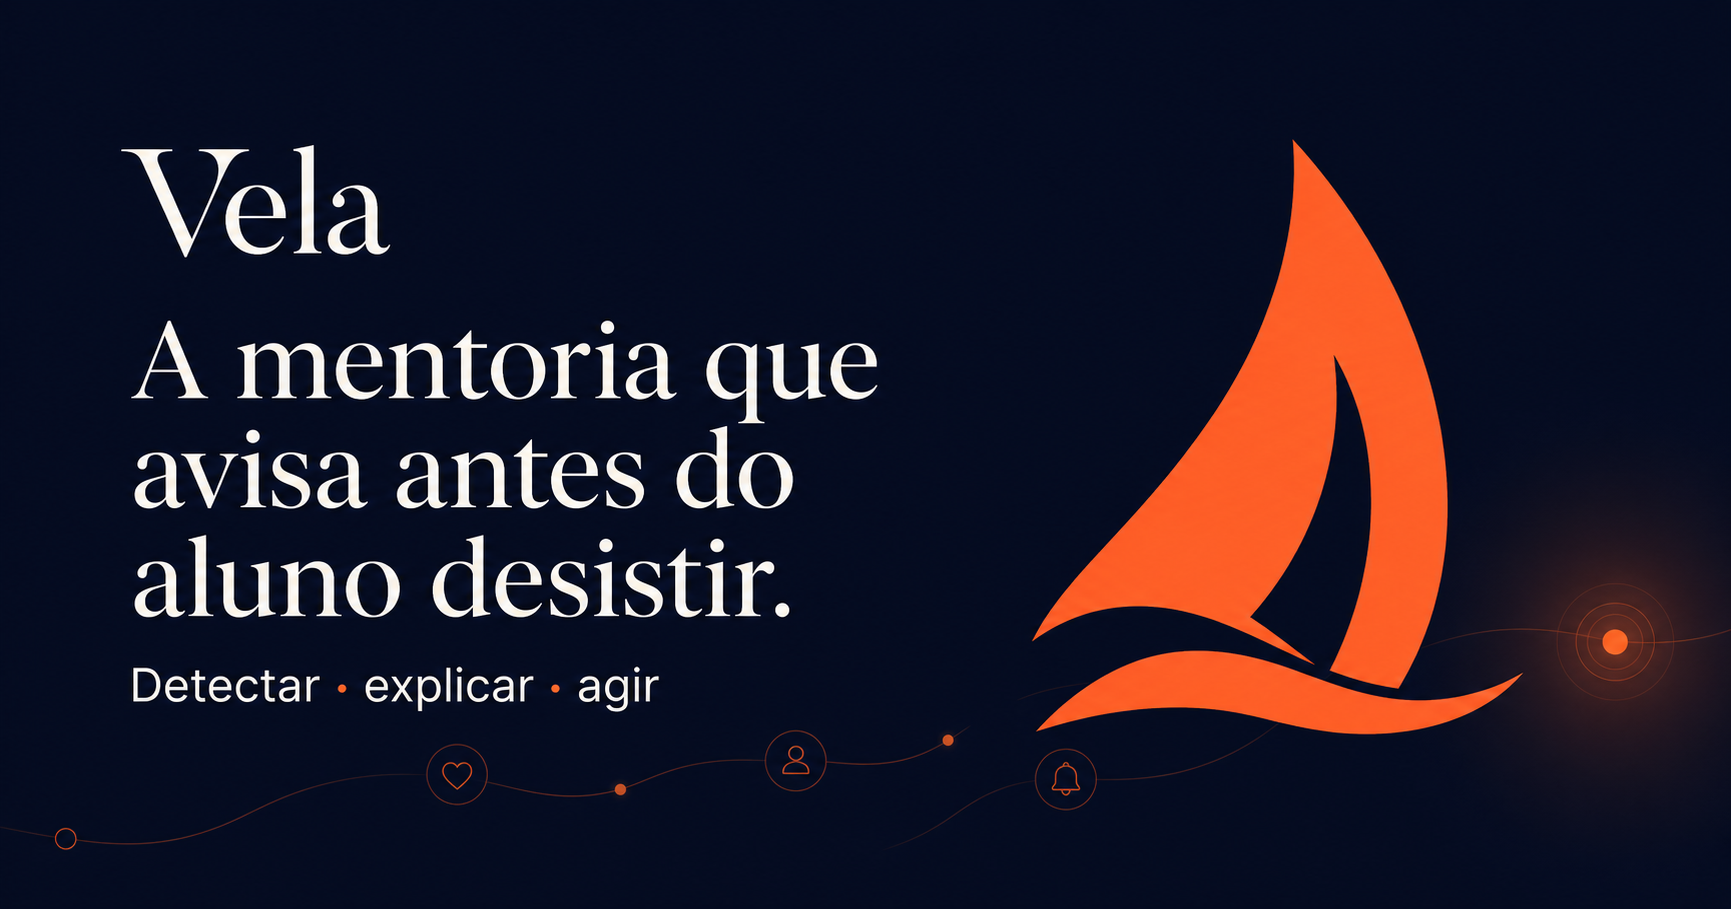
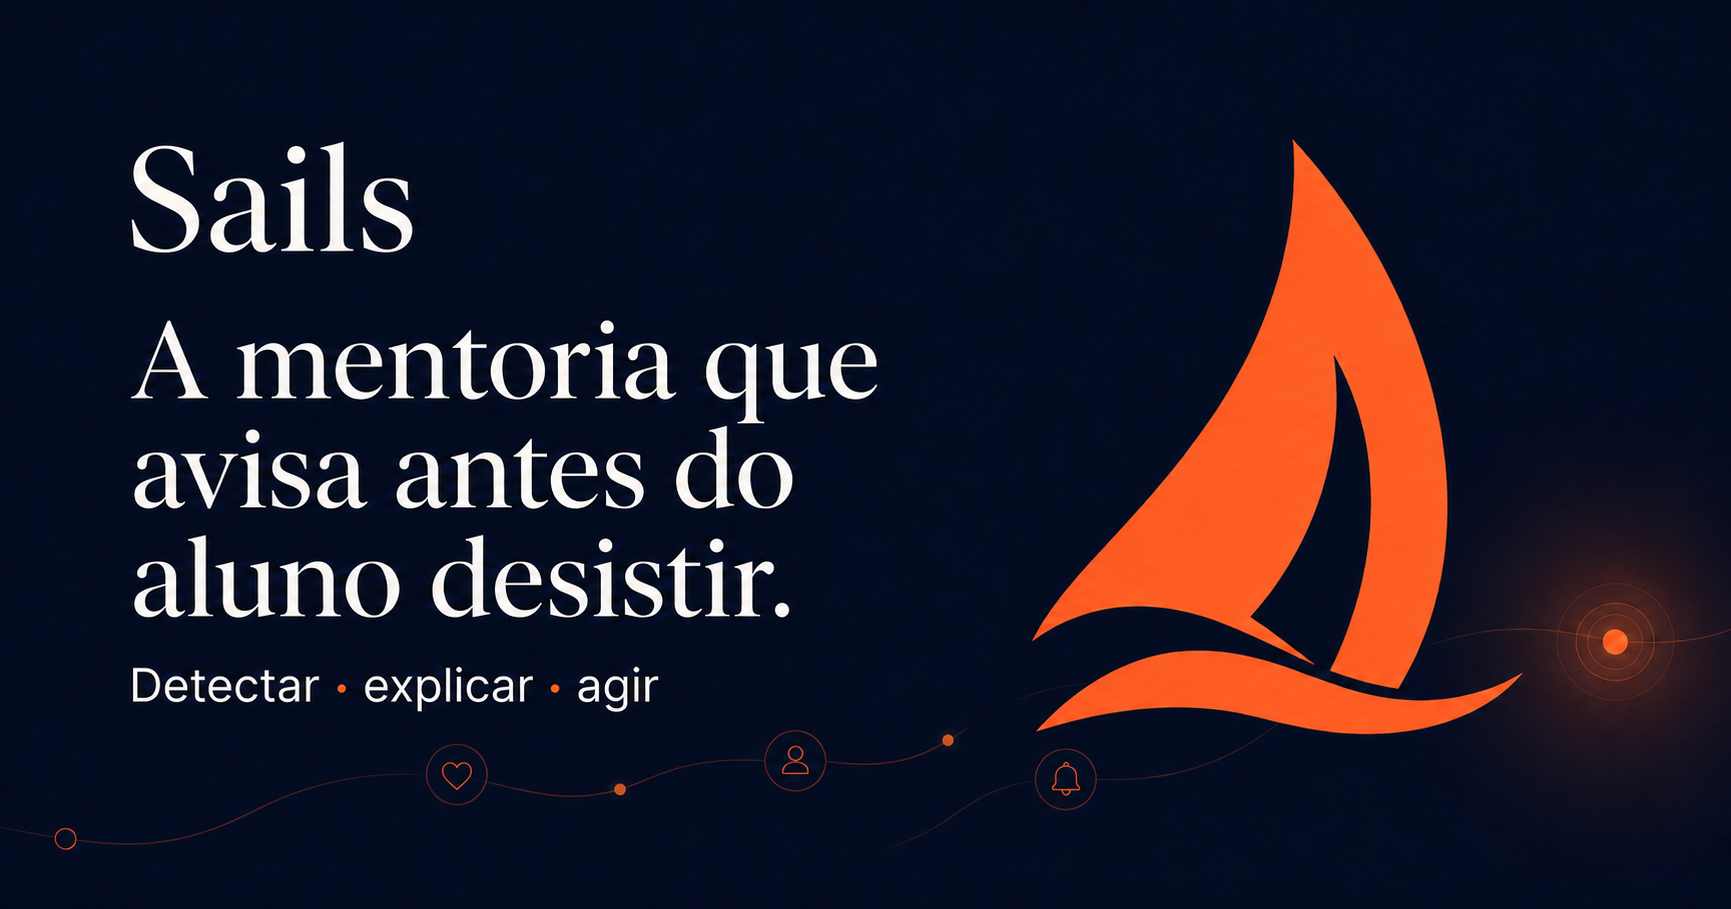
Rename Vela to Sails

diff --git a/app/layout.tsx b/app/layout.tsx
@@ -10,20 +10,20 @@ export async function generateMetadata(): Promise<Metadata> {
 
   return {
     metadataBase,
-    title: "Vela — A mentoria nunca apaga",
-    description: "A plataforma de mentoria que avisa antes do aluno desistir — não depois.",
+    title: "Sails — A mentoria nunca apaga",
+    description: "Sails une retenção e crescimento: a plataforma de mentoria que avisa antes do aluno desistir — não depois.",
     icons: { icon: "/favicon.svg", shortcut: "/favicon.svg" },
     robots: { index: false, follow: false },
     openGraph: {
-      title: "Vela — A mentoria nunca apaga",
-      description: "Detectar, explicar e agir antes do aluno desistir.",
+      title: "Sails — A mentoria nunca apaga",
+      description: "Sails como uma vela ao vento — e sales em movimento. Detectar, explicar e agir antes do aluno desistir.",
       type: "website",
-      images: [{ url: "/og.png", width: 1200, height: 630, alt: "Vela — A mentoria que avisa antes do aluno desistir" }],
+      images: [{ url: "/og.png", width: 1200, height: 630, alt: "Sails — A mentoria que avisa antes do aluno desistir" }],
     },
     twitter: {
       card: "summary_large_image",
-      title: "Vela — A mentoria nunca apaga",
-      description: "Detectar, explicar e agir antes do aluno desistir.",
+      title: "Sails — A mentoria nunca apaga",
+      description: "Sails como uma vela ao vento — e sales em movimento. Detectar, explicar e agir antes do aluno desistir.",
       images: ["/og.png"],
     },
   };

diff --git a/app/page.tsx b/app/page.tsx
@@ -116,7 +116,7 @@ const seedStudents: Student[] = [
     timeline: [
       { date: "20 jul", title: "Sinais de retomada", detail: "Nova atividade em dois dias distintos; caso segue em monitoramento.", tone: "warm" },
       { date: "18 jul", title: "Entrega concluída", detail: "Exercício de transformação de dados." },
-      { date: "12 jul", title: "Check-in registrado", detail: "Contato manual do mentor; mensagem não enviada pela Vela." },
+      { date: "12 jul", title: "Check-in registrado", detail: "Contato manual do mentor; mensagem não enviada pela Sails." },
     ],
   },
   { id: "ana", name: "Ana Beatriz", initials: "AB", track: "Formação em Dados & IA", progress: 82, score: 88, band: "alta", riskState: "none", lastActivity: "ontem", signals: ["Entregas em dia", "Ritmo consistente"], signalDetails: [{ title: "No ritmo esperado", detail: "Atividade e entregas seguem o plano da trilha.", date: "20 jul" }], suggestion: "Nenhuma ação necessária agora.", message: "", timeline: [{ date: "19 jul", title: "Entrega concluída", detail: "Projeto do módulo 5." }] },
@@ -228,7 +228,7 @@ export default function Home() {
     setStudents((current) => current.map((student) => student.id === dialogId ? {
       ...student,
       riskState: "monitoring",
-      timeline: [{ date: "20 jul", title: "Check-in registrado", detail: "Ação manual do mentor; nenhuma mensagem foi enviada pela Vela.", tone: "warm" }, ...student.timeline],
+      timeline: [{ date: "20 jul", title: "Check-in registrado", detail: "Ação manual do mentor; nenhuma mensagem foi enviada pela Sails.", tone: "warm" }, ...student.timeline],
     } : student));
     setDialogId(null);
     setMessage("");
@@ -248,9 +248,9 @@ export default function Home() {
   return (
     <div className="app-shell">
       <aside className="sidebar">
-        <button className="brand" onClick={() => navigate("cockpit")} aria-label="Vela — ir ao cockpit">
+        <button className="brand" onClick={() => navigate("cockpit")} aria-label="Sails — ir ao cockpit">
           <BrandMark />
-          <span>Vela</span>
+          <span>Sails</span>
         </button>
         <nav aria-label="Navegação principal">
           <button className={view === "cockpit" ? "nav-active" : ""} onClick={() => navigate("cockpit")}><span aria-hidden="true">⌂</span> Cockpit</button>
@@ -268,7 +268,7 @@ export default function Home() {
           <span className="demo-date">20 jul 2026</span>
         </div>
         <header className="mobile-header">
-          <button className="brand" onClick={() => navigate("cockpit")} aria-label="Vela — ir ao cockpit"><BrandMark compact /><span>Vela</span></button>
+          <button className="brand" onClick={() => navigate("cockpit")} aria-label="Sails — ir ao cockpit"><BrandMark compact /><span>Sails</span></button>
           <span className="mobile-count">{openCases.length} pedem atenção</span>
         </header>
 
@@ -390,7 +390,7 @@ export default function Home() {
             <div className="modal-top"><div><p className="eyebrow">Ação do mentor</p><h2 id="checkin-title">Check-in com {selected.name.split(" ")[0]}</h2></div><button ref={closeRef} className="close-button" onClick={() => { setDialogId(null); setMessage(""); }} aria-label="Fechar">×</button></div>
             <p className="modal-context">{selected.signals.slice(0, 2).join(" · ")}</p>
             <label className="message-label"><span>Mensagem sugerida</span><textarea value={message} onChange={(event) => setMessage(event.target.value)} rows={6} aria-describedby="message-safety" /><small id="message-safety">Use apenas conteúdo fictício. Não insira dados pessoais ou confidenciais; copiar transfere o texto ao clipboard deste dispositivo.</small></label>
-            <div className="modal-disclosure"><span aria-hidden="true">i</span><p>A Vela não enviará esta mensagem. Você pode copiá-la e registrar que fez o contato manualmente.</p></div>
+            <div className="modal-disclosure"><span aria-hidden="true">i</span><p>A Sails não enviará esta mensagem. Você pode copiá-la e registrar que fez o contato manualmente.</p></div>
             <div className="modal-actions"><button className="button ghost" onClick={() => { setDialogId(null); setMessage(""); }}>Cancelar</button><button className="button copy" onClick={copyMessage}>Copiar mensagem</button><button className="button primary" onClick={registerCheckIn}>Registrar check-in na demo</button></div>
           </div>
         </div>